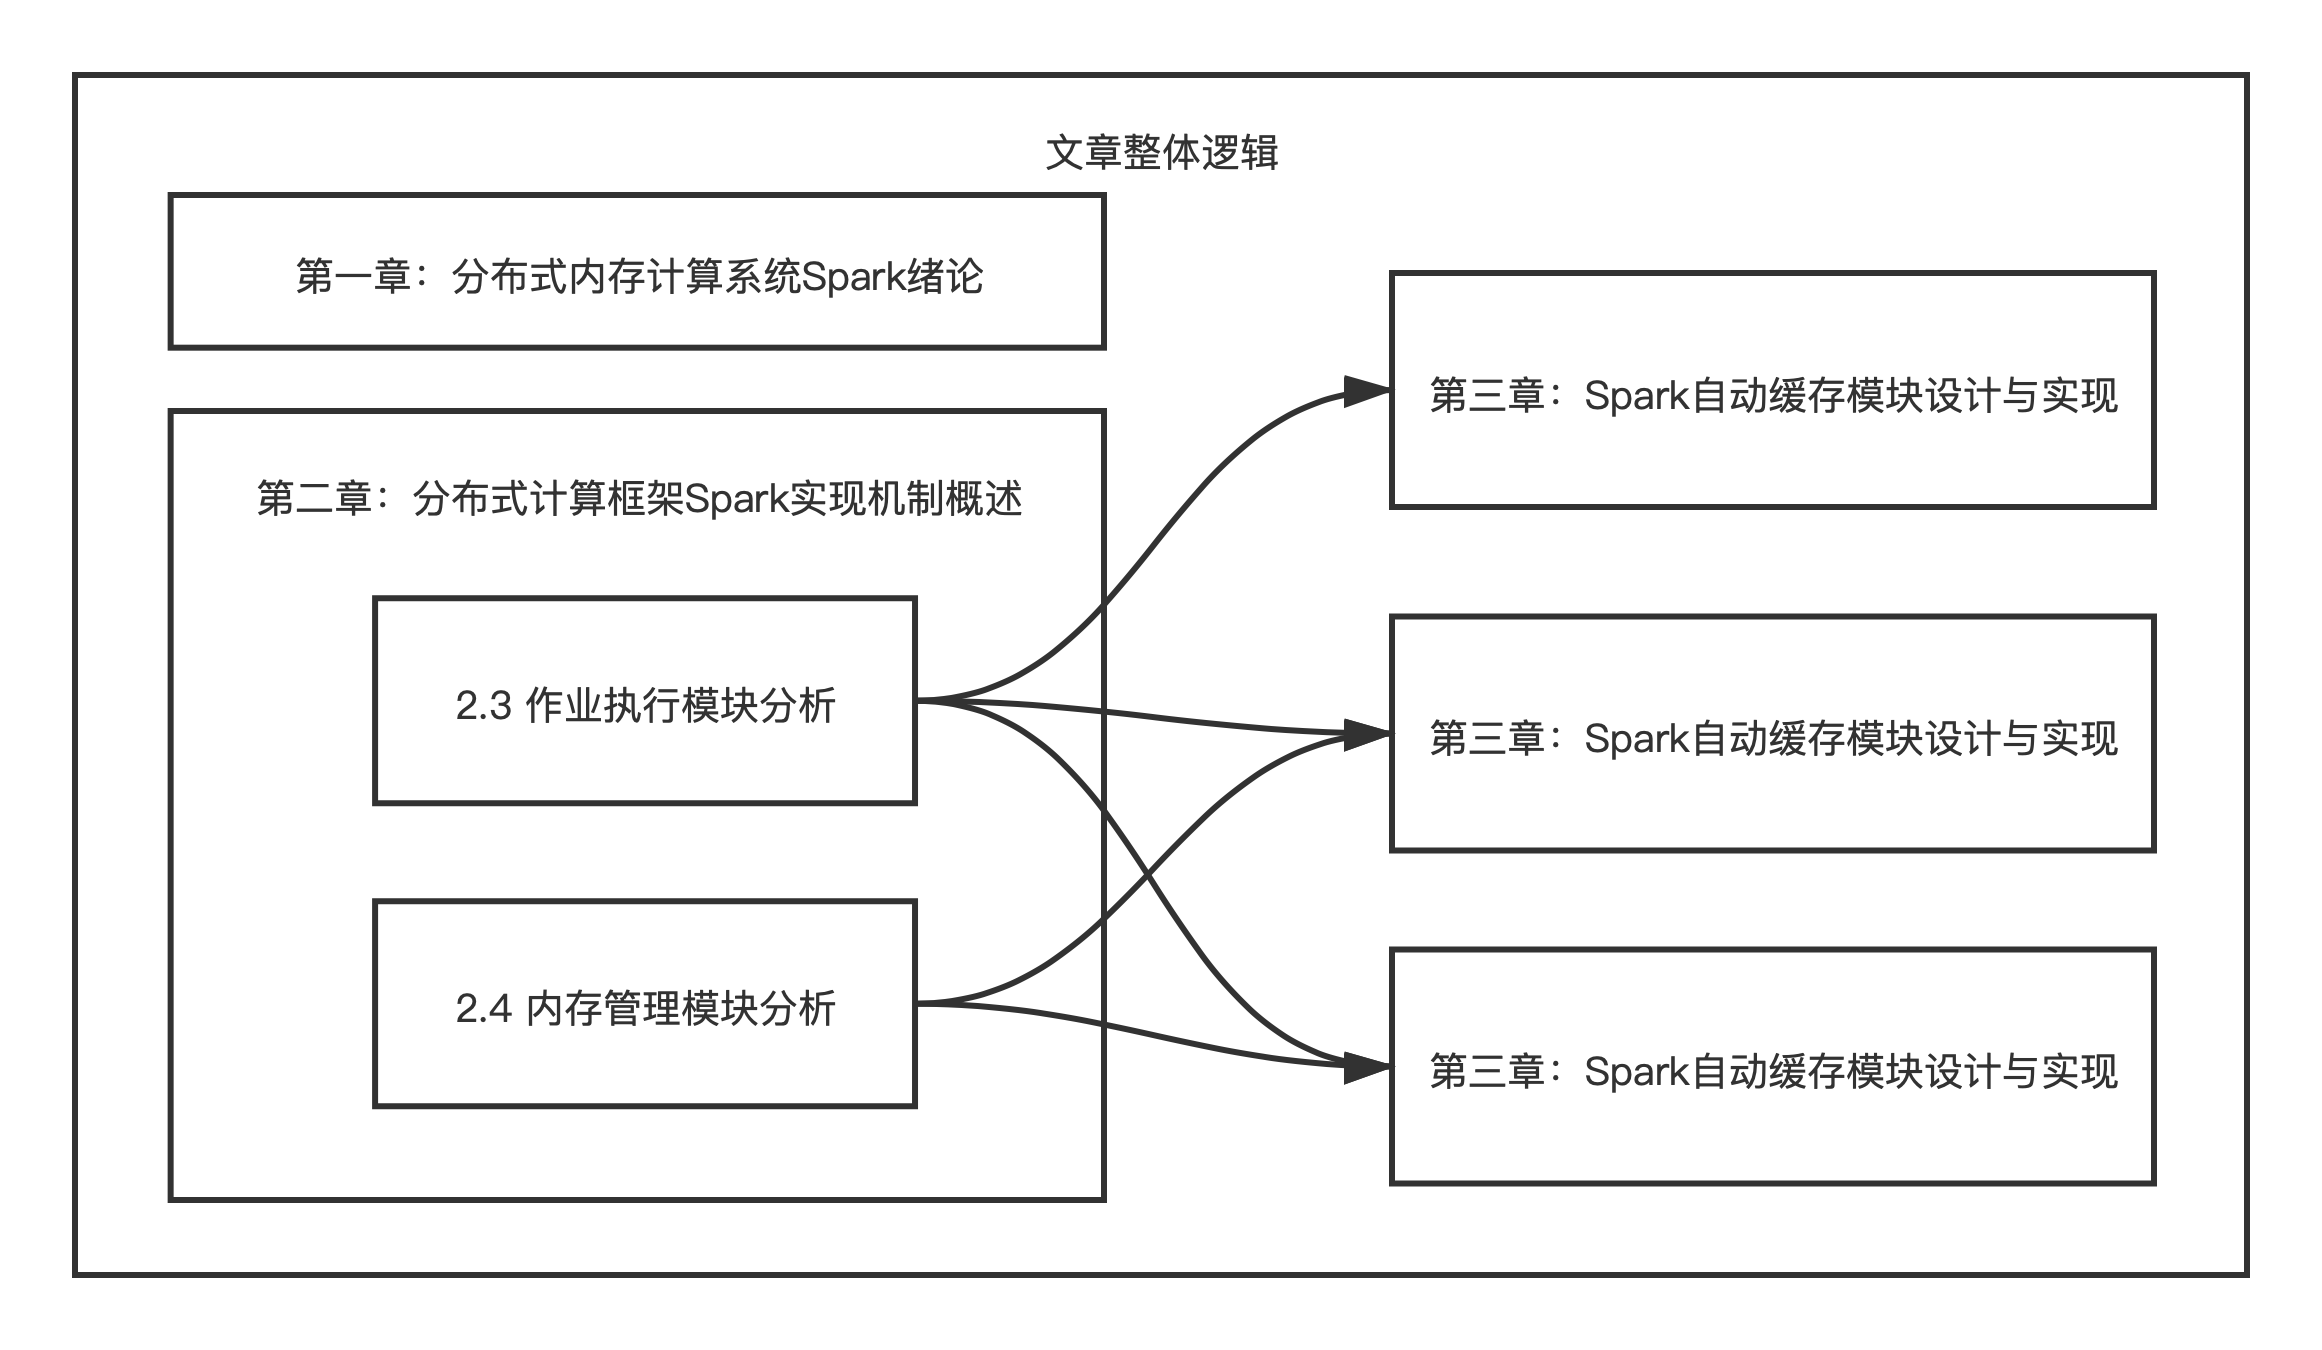
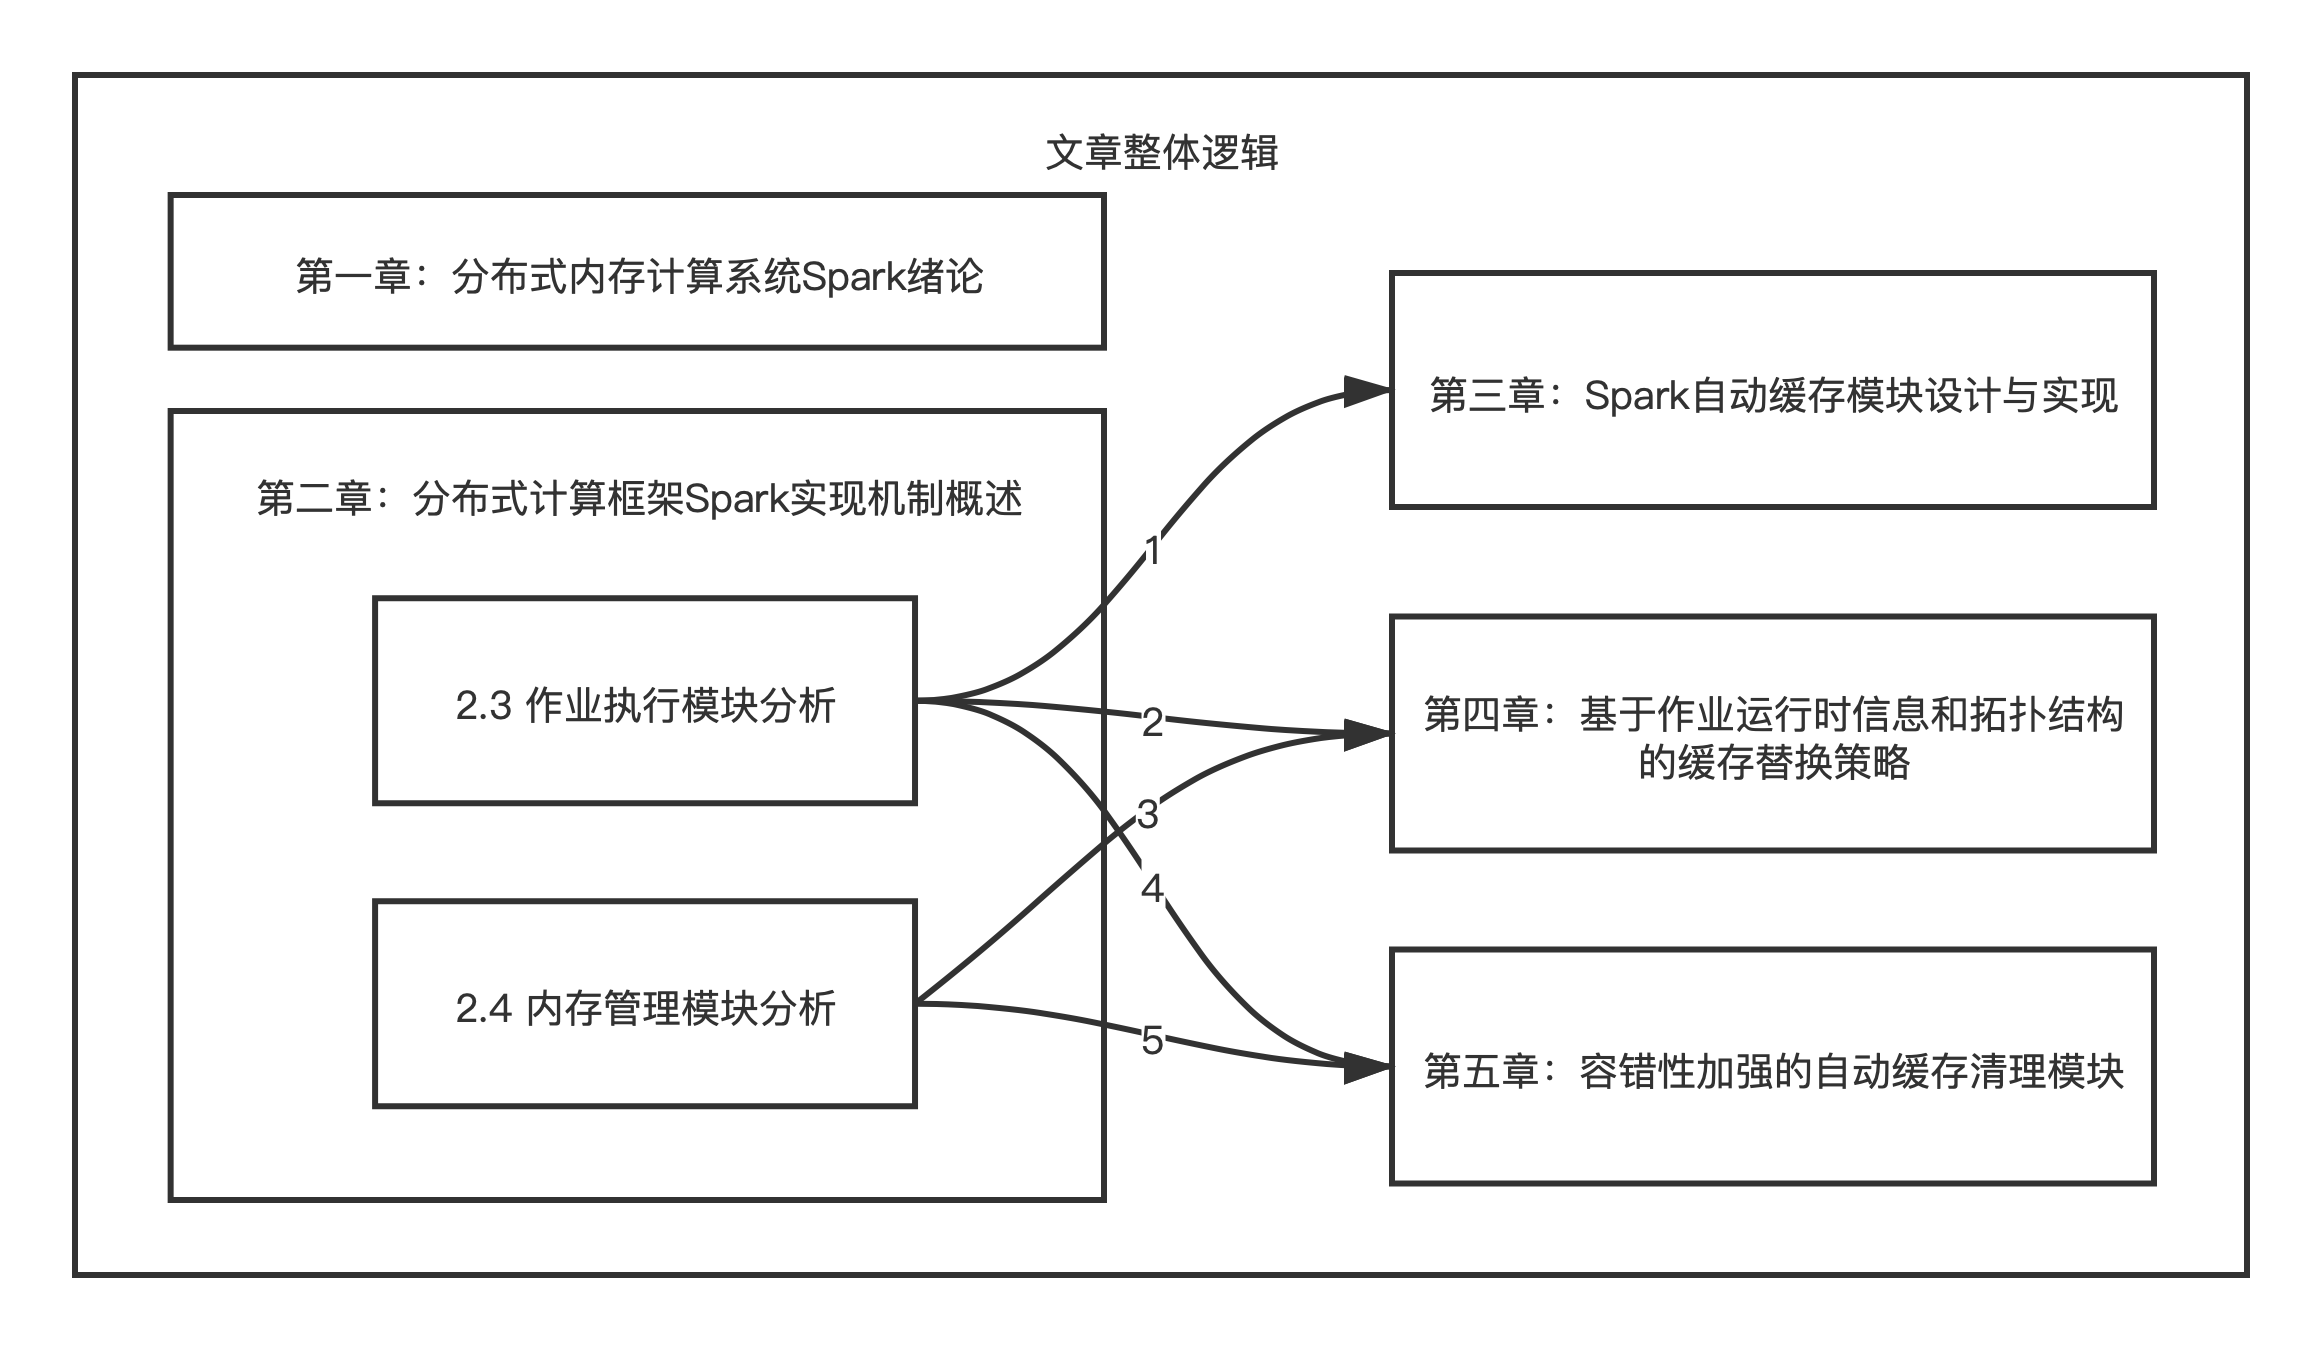
改了改第一章

Changed region(s): [[0.6202, 0.4978, 0.9302, 0.5911], [0.4031, 0.5289, 0.5891, 0.7467], [0.6202, 0.7778, 0.9302, 0.8089]]

diff --git a/Tex/Frontmatter.tex b/Tex/Frontmatter.tex
@@ -26,7 +26,7 @@
 \begin{enumerate}
     \item 设计实现自动缓存系统。为了解决手动指定缓存可能导致的错误缓存、操作复杂的问题，该模块通过提前运行小规模数据集得到重复使用的RDD数据，之后再执行大规模数据集时自动缓存重复使用的RDD数据。此外考虑了新版本Spark中添加的动态执行特性。Spark框架在运行过程中修改执行计划时自动管理模块也会实时修改DAG图信息，本文也会相对应的做出调整，保证能够做出正确的缓存决策。通过这种方式实现了自动缓存的功能。经过测试，对于迭代式计算和SQL作业，自动缓存模块平均额外计算开销占作业总执行时间的12\%和3\%。
     \item 设计实现基于DAG拓扑结构的缓存替换策略。为了优化缓存替换策略，从而加速作业执行速度，该策略综合考虑了RDD的大小、计算代价以及DAG图拓扑结构等特征。综合计算得到RDD数据的优先级，发生缓存替换时淘汰优先级最低的RDD数据。经过测试，对于大规模测试样例，作业平均执行时间减少了23s。
-    \item 设计实现了容错新增强的冗余缓存清理模块。为了解决缓存占用率高以及出错情况下作业容错性差的问题，该模块通过对DAG图的分析，在计算过程中自动删除部分冗余的缓存对象，提高内存空间利用率。通过保留距离当前正在计算的RDD数据为2的数据，增加了系统的容错性，从而可以兼顾系统的内存利用率和容错性。经过测试，作业执行过程中的缓存占用率平均降低了19.5\%。在容错性测试样例，作业能够迅速恢复计算，整体作业执行时间缩短了27\%。
+    \item 设计实现了容错新增强的冗余缓存清理模块。为了解决缓存占用率高以及出错情况下作业容错性差的问题，该模块通过对DAG图的分析，在计算过程中自动删除部分冗余的缓存对象，提高内存空间利用率。通过保留距离当前正在计算的RDD数据为2的数据，增加了系统的容错性，从而可以兼顾系统的内存利用率和容错性。经过测试，作业执行过程中的缓存占用率平均降低了19.5\%。
 \end{enumerate}
 
 \keywords{分布式计算，Spark框架，缓存管理，缓存策略}% 中文关键词
@@ -41,8 +41,7 @@ The cache management module and the DAG engine composed of RDDs are the core opt
 
 In order to solve the above three problems. This paper studies the principle and operating mechanism of the Spark framework analyzed in detail, and designs and implements an automatic cache management module based on the principle of Spark, a cache replacement strategy based on the DAG topology, and a newly enhanced redundant cache cleaning module for fault tolerance.Thus, a set of solutions are proposed for the problems existing in the Spark cache management system. The main work of this paper is as follows:
 
-\begin{enumerate}
-    \item This paper studies and analyzes the design principles and operating mechanisms, resource management methods, and job scheduling operating modes of the distributed memory computing system Spark. This article tests and analyzes the characteristics and problems of Spark's memory management mechanism.This article uses big data benchmark to test the usage characteristics of Execution Memory, Shuffle Memory, and Storage Memory memory partitions in the Spark framework
+\begin{enumerat}
     \item This article designs and implements an automatic caching system. This article runs a small-scale data set in advance to get the reused RDD data, and then automatically caches the reused RDD data when executing a large-scale data set. This article also considers the dynamic execution features added in the new version of Spark. When the Spark framework modifies the execution plan during the running process, the automatic management module will also modify the DAG graph information in real time. This article ensures that the correct caching decision can be made.
     \item This article designs and implements a cache replacement strategy based on DAG topology. This strategy comprehensively considers the characteristics of RDD size, computational cost, and DAG graph topology structure. The priority of RDD data is obtained by comprehensive calculation, and the RDD data with the lowest priority is eliminated when cache replacement occurs.
     \item This paper designs and implements a new and enhanced redundant cache cleaning module for fault tolerance. Through the analysis of the DAG graph, this article automatically deletes some redundant cache objects during the calculation process to improve the utilization of memory space.This paper increases the fault tolerance of the system by retaining the data whose distance is 2 from the RDD data currently being calculated, so that the memory utilization and fault tolerance of the system can be taken into account.

diff --git a/Tex/Chap_2.tex b/Tex/Chap_2.tex
@@ -67,7 +67,6 @@ Task，Spark计算任务。Driver程序启动后会将Spark应用切分成多个
 
 任务调度可以分为stage级别调度和task级别调度。stage级别调度会先对DAG图进行分割。划分过程是从job的最后一个RDD开始向上回溯遍历，遇到宽依赖，也就是需要Shuffle的依赖就将RDD加入新的Stage之中。如果是窄依赖就将RDD加入当前Stage之中。这样就可以根据依赖关系将一个job切分成许多个Stage。
 
-
 切分成多个Stage后会根据拓扑排序的关系从前到后执行。当一个Stage的父Stage全都执行完成之后当前Stage就会被调度执行。DAGScheduler会将Stage中Task信息，包括分区信息和操作方法等序列化打包成TaskSet交给TaskScheduler，每个分区Partition都对应一个Task。提交TaskSet之后DAGScheduler会监控Stage执行状况。
 
 \begin{figure}[htbp]
